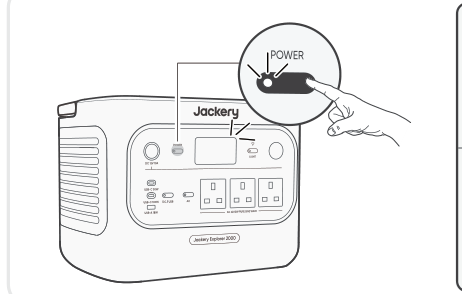
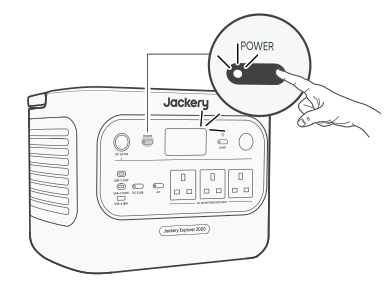
fix(web): remove stray borders from LCD mode artwork

diff --git a/code-as-doc/reviews/je2000_eu_new_locales_2026-09.md b/code-as-doc/reviews/je2000_eu_new_locales_2026-09.md
@@ -146,3 +146,8 @@ AC and DC/USB prerequisite pills now use one shared CSS token
 the common darker source pill selected by the operator. The native F source used different grayscale
 fills on p139 and p140; the live rounded HTML pill normalizes that presentation
 while preserving source artwork, native coordinates and searchable copy.
+
+F LCD-mode artwork crops for pt/nl/pl now exclude the source outer-frame
+and adjacent table strokes. The tighter source-PDF crop retains the full
+product, hand and POWER callout (12x visual check); the live HTML table and
+outer card border remain unchanged. E uses separate clean artwork.
